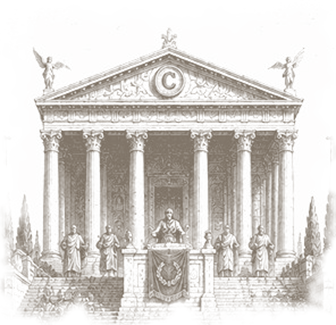
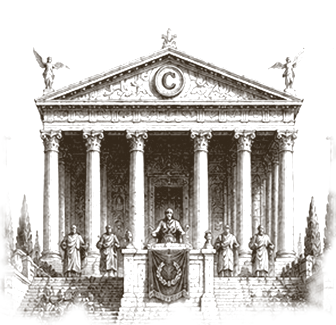
feat(loader): deeper engraving, the seal press, and staged status
All six notes, plus the seal.

1. THE TEMPLE WAS WASHED OUT. Fixed in the asset, not with CSS opacity, which
   would have lifted the paper along with the ink. The generator takes a
   -Contrast S-curve pivoted at 0.30 -- under the faint wash -- so the
   crosshatching goes denser while the light hatching stays light. 1.42, with
   the ink darkened #4A3A28 -> #342A1B and strength to full. Engraved banknote
   rather than watermark. A plain gamma or a higher strength would have
   darkened everything equally and turned it muddy.

2. THE WORDMARK SITS ON THE TEMPLE. 26px -> 2px. Measured the asset's alpha
   bounding box first: 1px of transparent padding at its base, so the margin
   was the entire gap and there was nothing else to reclaim. 24px closer.

3. THE RULE IS MECHANICAL NOW. Six stops -- 12, 25, 41, 63, 81, 100 -- and the
   transition drops 420ms -> 180ms. The spacing is uneven on purpose: even
   stops read as a timer, uneven ones read as work of differing size
   completing.

4. THE STATUS IS STAGED. VERIFYING ORACLES -> LOCKING CAPITAL -> PREPARING
   CONTRACT -> READY, two stops each, ~320ms a phase. It changes WITH the stops
   rather than on its own clock, so the words and the rule can never disagree,
   and it swaps instantly -- a cross-fade would be the one soft thing on a
   screen whose whole argument is that it is mechanical.

5. THE INK BREATHES. 1.5% over 7s on the temple and mark only. Meant to sit
   under the threshold of noticing.
[…]

diff --git a/FRONTEND/index.html b/FRONTEND/index.html
@@ -352,13 +352,17 @@
 
                168px rather than the emblem's 136: this is a facade with a
                colonnade, statuary and a C in the pediment, and at 136 the
-               columns close up into a grey band. */
+               columns close up into a grey band.
+
+               2px, down from 26. The asset has almost no transparent padding at
+               its base (measured: 1px), so the margin was the whole gap and the
+               temple read as floating above an unrelated wordmark. It now sits
+               on the name. */
             .cl-ld-temple {
                 width: 168px;
                 height: auto;
                 display: block;
-                margin-bottom: 26px;
-                opacity: .9;
+                margin-bottom: 2px;
             }
             .cl-ld-mark {
                 font-family: 'Trajan Pro', 'Nevera', 'Aquire', 'Cinzel', sans-serif;
@@ -381,7 +385,12 @@
                 margin: 38px 0 0;
             }
             /* Fill and marker are both driven off --p, so they cannot drift
-               apart the way two separately animated elements would. */
+               apart the way two separately animated elements would.
+
+               180ms, down from 420. The rule advances through six fixed stops
+               rather than gliding, and at 420 each step was a slow slide that
+               read as decoration. Short and linear reads as a mechanism
+               registering one check at a time. */
             .cl-ld-fill {
                 position: absolute;
                 left: 0;
@@ -389,7 +398,7 @@
                 height: 100%;
                 width: calc(var(--p, 0) * 100%);
                 background: #7A2230;
-                transition: width 420ms linear;
+                transition: width 180ms linear;
             }
             .cl-ld-dia {
                 position: absolute;
@@ -399,7 +408,37 @@
                 height: 7px;
                 background: #7A2230;
                 transform: translate(-50%, -50%) rotate(45deg);
-                transition: left 420ms linear;
+                transition: left 180ms linear,
+                            transform 90ms ease-in,
+                            opacity 110ms linear;
+            }
+            /* THE SEAL. At 100% the diamond presses down, then gives way to a
+               wax seal for a beat before the page arrives — the contract being
+               registered rather than a bar finishing. Both states sit on the
+               same --p, so the seal lands exactly where the diamond stopped. */
+            .cl-ld-rail.is-press .cl-ld-dia {
+                transform: translate(-50%, -50%) translateY(2px) rotate(45deg);
+            }
+            .cl-ld-rail.is-sealed .cl-ld-dia {
+                opacity: 0;
+                transform: translate(-50%, -50%) translateY(2px) rotate(45deg) scale(.5);
+            }
+            .cl-ld-seal {
+                position: absolute;
+                top: 50%;
+                left: calc(var(--p, 0) * 100%);
+                width: 22px;
+                height: 22px;
+                opacity: 0;
+                background: url('/assets/images/maroon-wax-seal.png') center / contain no-repeat;
+                transform: translate(-50%, -50%) scale(.4);
+                transition: transform 110ms cubic-bezier(.2, .8, .3, 1),
+                            opacity 110ms linear;
+                pointer-events: none;
+            }
+            .cl-ld-rail.is-sealed .cl-ld-seal {
+                opacity: 1;
+                transform: translate(-50%, -50%) scale(1);
             }
             .cl-ld-status {
                 font-family: 'IBM Plex Mono', ui-monospace, monospace;
@@ -411,12 +450,17 @@
                 margin-top: 26px;
                 padding-left: .30em;
             }
-            .cl-ld-wreath {
-                width: 24px;
-                height: 24px;
-                display: block;
-                margin-top: 26px;
-                opacity: .55;
+            /* THE INK BREATHES. Roughly 1.5% over seven seconds, on the temple
+               and the mark only — an old certificate catching different light.
+               It is meant to be below the threshold of noticing; if it reads as
+               a pulse it is too strong. Nothing else on the screen moves. */
+            @keyframes cl-ld-ink {
+                0%, 100% { opacity: .985; }
+                50%      { opacity: 1; }
+            }
+            .cl-ld-temple,
+            .cl-ld-mark {
+                animation: cl-ld-ink 7s ease-in-out infinite;
             }
             .cl-ld-foot {
                 font-family: 'IBM Plex Mono', ui-monospace, monospace;
@@ -425,24 +469,26 @@
                 letter-spacing: .22em;
                 text-transform: uppercase;
                 color: rgba(0, 0, 0, .45);
-                margin-top: 44px;
+                margin-top: 40px;
                 padding-left: .22em;
             }
             @media (max-width: 480px) {
-                .cl-ld-temple { width: 138px; margin-bottom: 22px; }
+                .cl-ld-temple { width: 138px; margin-bottom: 0; }
                 .cl-ld-mark { font-size: 21px; }
                 .cl-ld-rail { width: 210px; margin-top: 32px; }
                 .cl-ld-status { font-size: 9px; letter-spacing: .24em; padding-left: .24em; }
-                .cl-ld-foot { font-size: 8.5px; letter-spacing: .14em; padding-left: .14em; margin-top: 36px; }
+                .cl-ld-foot { font-size: 8.5px; letter-spacing: .14em; padding-left: .14em; margin-top: 34px; }
             }
-            /* Nothing here animates on entry, so reduced motion only needs to
-               take the travel out of the one thing that moves. */
+            /* Reduced motion: the rule still advances and the seal still lands,
+               because both carry meaning — they are the status, not decoration.
+               What goes is the travel and the breathing. */
             @media (prefers-reduced-motion: reduce) {
-                #loading-screen, .cl-ld-fill, .cl-ld-dia { transition: none !important; }
+                #loading-screen, .cl-ld-fill, .cl-ld-dia, .cl-ld-seal { transition: none !important; }
+                .cl-ld-temple, .cl-ld-mark { animation: none !important; opacity: 1 !important; }
             }
         </style>
 
-        <div class="cl-ld" role="status" aria-label="Preparing your contract">
+        <div class="cl-ld" role="status" aria-live="polite" aria-label="Preparing your contract">
             <img class="cl-ld-temple" src="/assets/images/loader-temple.png" alt=""
                  width="336" height="325" decoding="async" />
 
@@ -451,77 +497,103 @@
             <div class="cl-ld-rail" id="cl-ld-rail">
                 <div class="cl-ld-fill"></div>
                 <span class="cl-ld-dia"></span>
+                <span class="cl-ld-seal" aria-hidden="true"></span>
             </div>
 
-            <div class="cl-ld-status">Preparing your contract</div>
-
-            <!-- Laurel, drawn rather than fetched: at 24px an image is a
-                 request for something a dozen paths do exactly. -->
-            <svg class="cl-ld-wreath" viewBox="0 0 48 48" fill="none" aria-hidden="true">
-                <g stroke="#4A3A28" stroke-width="1.1" stroke-linecap="round" fill="none">
-                    <path d="M24 42.5C16.2 39.6 10.5 32.4 10 22.5" />
-                    <path d="M24 42.5C31.8 39.6 37.5 32.4 38 22.5" />
-                </g>
-                <g fill="#4A3A28" opacity=".9">
-                    <ellipse cx="19.6" cy="39.2" rx="3.5" ry="1.45" transform="rotate(-28 19.6 39.2)" />
-                    <ellipse cx="16.2" cy="35.4" rx="3.5" ry="1.45" transform="rotate(-40 16.2 35.4)" />
-                    <ellipse cx="13.4" cy="31.0" rx="3.4" ry="1.4"  transform="rotate(-54 13.4 31)" />
-                    <ellipse cx="11.5" cy="26.2" rx="3.2" ry="1.35" transform="rotate(-68 11.5 26.2)" />
-                    <ellipse cx="10.6" cy="21.4" rx="2.9" ry="1.25" transform="rotate(-82 10.6 21.4)" />
-                    <ellipse cx="28.4" cy="39.2" rx="3.5" ry="1.45" transform="rotate(28 28.4 39.2)" />
-                    <ellipse cx="31.8" cy="35.4" rx="3.5" ry="1.45" transform="rotate(40 31.8 35.4)" />
-                    <ellipse cx="34.6" cy="31.0" rx="3.4" ry="1.4"  transform="rotate(54 34.6 31)" />
-                    <ellipse cx="36.5" cy="26.2" rx="3.2" ry="1.35" transform="rotate(68 36.5 26.2)" />
-                    <ellipse cx="37.4" cy="21.4" rx="2.9" ry="1.25" transform="rotate(82 37.4 21.4)" />
-                </g>
-                <rect x="21.9" y="21.9" width="4.2" height="4.2" fill="#7A2230"
-                      transform="rotate(45 24 24)" />
-            </svg>
+            <div class="cl-ld-status" id="cl-ld-status">Verifying oracles</div>
 
             <div class="cl-ld-foot">Verified data &middot; Locked capital &middot; Automatic settlement</div>
         </div>
 
         <script>
-            /* Drives the rule. Five deliberate stages while the app boots, then
-               main.js calls finish() and it closes to 100%.
-
-               The 900ms floor is the low end of the brief's own target window.
-               Without it a warm cache dismisses the screen in ~250ms, which
-               does not read as preparation — it reads as a flicker, which is
-               worse than no screen at all. Nothing waits longer than that: if
-               the app is slow, finish() simply arrives later and the stages
-               hold at 88% until it does. */
+            /* Drives the rule and the seal.
+             *
+             * Five fixed stops while the app boots, each carrying the name of
+             * what is notionally being checked. The stops are uneven on purpose
+             * — 12, 25, 41, 63, 81 — because evenly spaced ones read as a timer
+             * and uneven ones read as work of differing size completing.
+             *
+             * The status line changes with the stops rather than on its own
+             * clock, so the words and the rule can never disagree. Text swaps
+             * instantly: a cross-fade would be the one soft thing on a screen
+             * whose whole argument is that it is mechanical.
+             *
+             * THE CLOSE. At 100% the diamond presses down, gives way to a wax
+             * seal, holds, and only then does the page arrive. That is the
+             * point of the screen — a contract registered, not a bar finished —
+             * so the ceremony is 580ms of the budget and everything else was
+             * trimmed to pay for it.
+             *
+             * The 700ms floor is measured from first paint, not added on top. A
+             * warm cache has the app ready in ~250-300ms, which dismisses the
+             * screen fast enough to read as a flicker rather than as
+             * preparation. Nothing waits longer: if the app is slow, finish()
+             * arrives later and the rule holds at 81% until it does. Floor plus
+             * ceremony puts a cached load at roughly 1.55s, inside the brief's
+             * 900-1600 window. */
             (function () {
                 var rail = document.getElementById('cl-ld-rail');
                 var screen = document.getElementById('loading-screen');
+                var status = document.getElementById('cl-ld-status');
                 if (!rail || !screen) return;
 
-                var STOPS = [0.18, 0.36, 0.55, 0.72, 0.88];
-                var FLOOR = 900, HOLD = 250, FADE = 350;
+                var STOPS = [
+                    { p: 0.12, t: 'Verifying oracles' },
+                    { p: 0.25, t: 'Verifying oracles' },
+                    { p: 0.41, t: 'Locking capital' },
+                    { p: 0.63, t: 'Locking capital' },
+                    { p: 0.81, t: 'Preparing contract' }
+                ];
+                var STEP = 160,   /* two stops a phase => ~320ms each, and all
+                                     five land inside the floor at 0/160/320/
+                                     480/640 */
+                    FLOOR = 660,
+                    FILL = 180,   /* must match the rule's own transition */
+                    PRESS = 90,
+                    SEAL = 110,
+                    HOLD = 200,
+                    FADE = 320;
+
                 var t0 = Date.now(), i = 0, done = false;
 
-                function set(p) { rail.style.setProperty('--p', p); }
-                set(STOPS[0]);
+                function at(s) {
+                    rail.style.setProperty('--p', s.p);
+                    if (status && status.textContent !== s.t) status.textContent = s.t;
+                }
+                at(STOPS[0]);
 
                 var tick = setInterval(function () {
-                    if (done) return;
-                    if (++i < STOPS.length) set(STOPS[i]); else clearInterval(tick);
-                }, 200);
+                    if (++i < STOPS.length) at(STOPS[i]); else clearInterval(tick);
+                }, STEP);
 
+                /* The stops are deliberately NOT cancelled here. A warm cache
+                   calls this at ~280ms, and cancelling then jumped the rule
+                   straight to Ready — so LOCKING CAPITAL and PREPARING CONTRACT
+                   were never shown at all, on exactly the loads most people
+                   get. The ticker runs out inside the floor instead, and only
+                   the wait's own callback stops it. */
                 window.__clLoaderFinish = function () {
                     if (done) return;
                     done = true;
-                    clearInterval(tick);
-                    var wait = Math.max(0, FLOOR - (Date.now() - t0));
+
                     setTimeout(function () {
-                        set(1);
+                        clearInterval(tick);
+                        at({ p: 1, t: 'Ready' });
                         setTimeout(function () {
-                            screen.classList.add('loaded');
+                            rail.classList.add('is-press');
                             setTimeout(function () {
-                                if (screen && screen.parentNode) screen.parentNode.removeChild(screen);
-                            }, FADE + 60);
-                        }, HOLD);
-                    }, wait);
+                                rail.classList.add('is-sealed');
+                                setTimeout(function () {
+                                    screen.classList.add('loaded');
+                                    setTimeout(function () {
+                                        if (screen && screen.parentNode) {
+                                            screen.parentNode.removeChild(screen);
+                                        }
+                                    }, FADE + 60);
+                                }, SEAL + HOLD);
+                            }, PRESS);
+                        }, FILL);
+                    }, Math.max(0, FLOOR - (Date.now() - t0)));
                 };
             })();
         </script>
